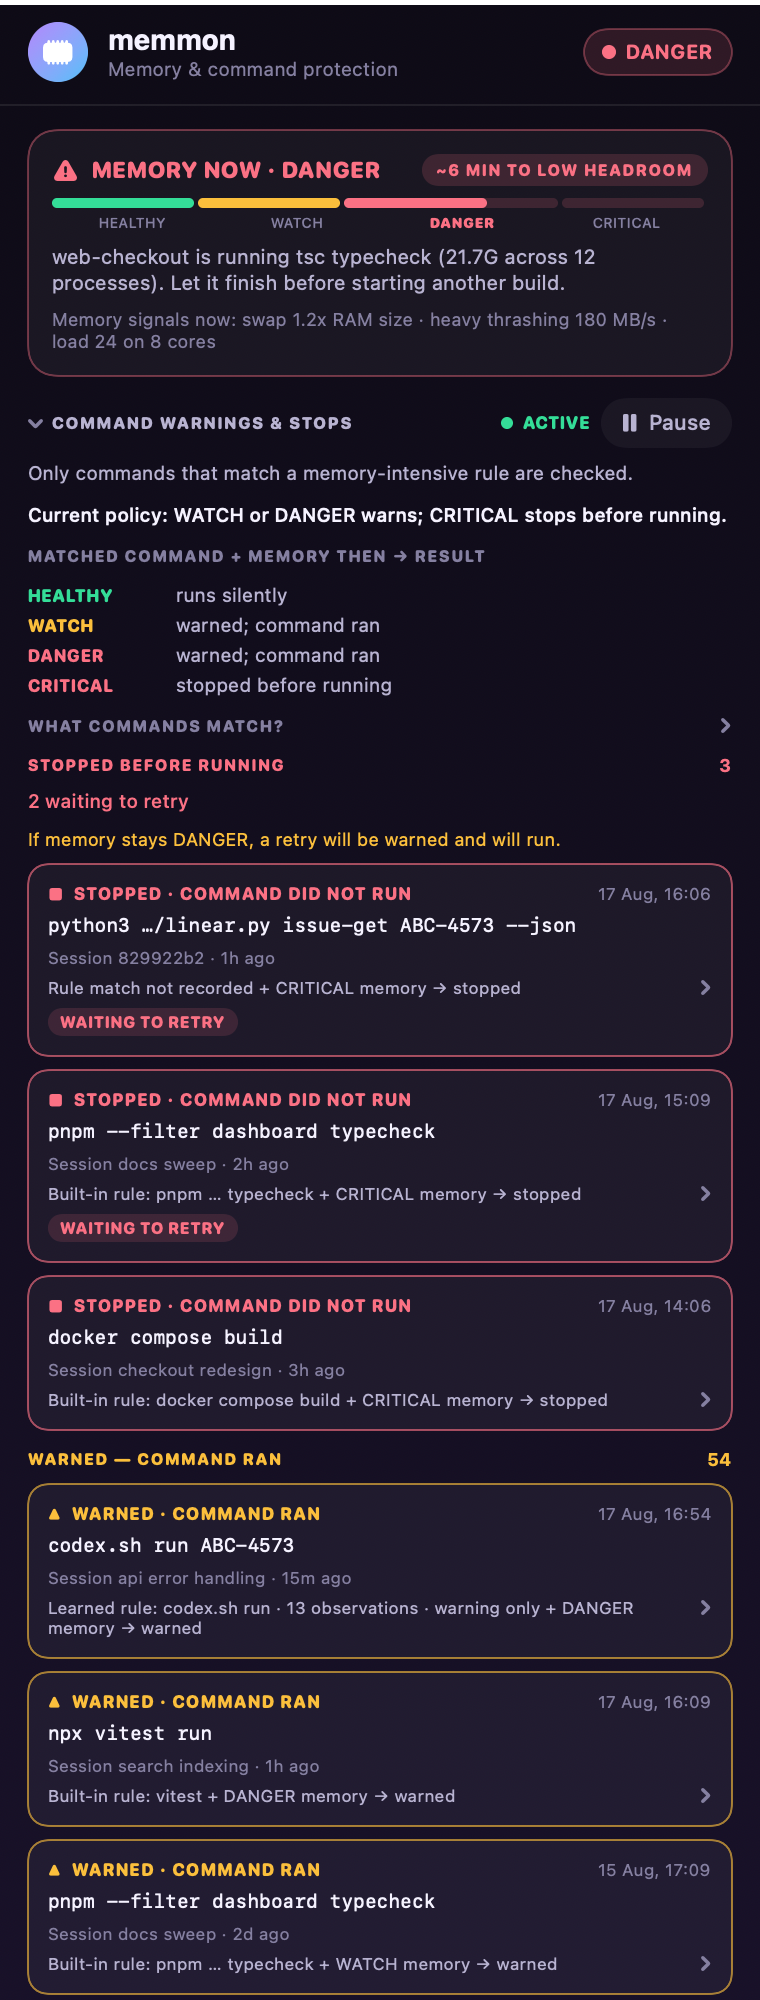
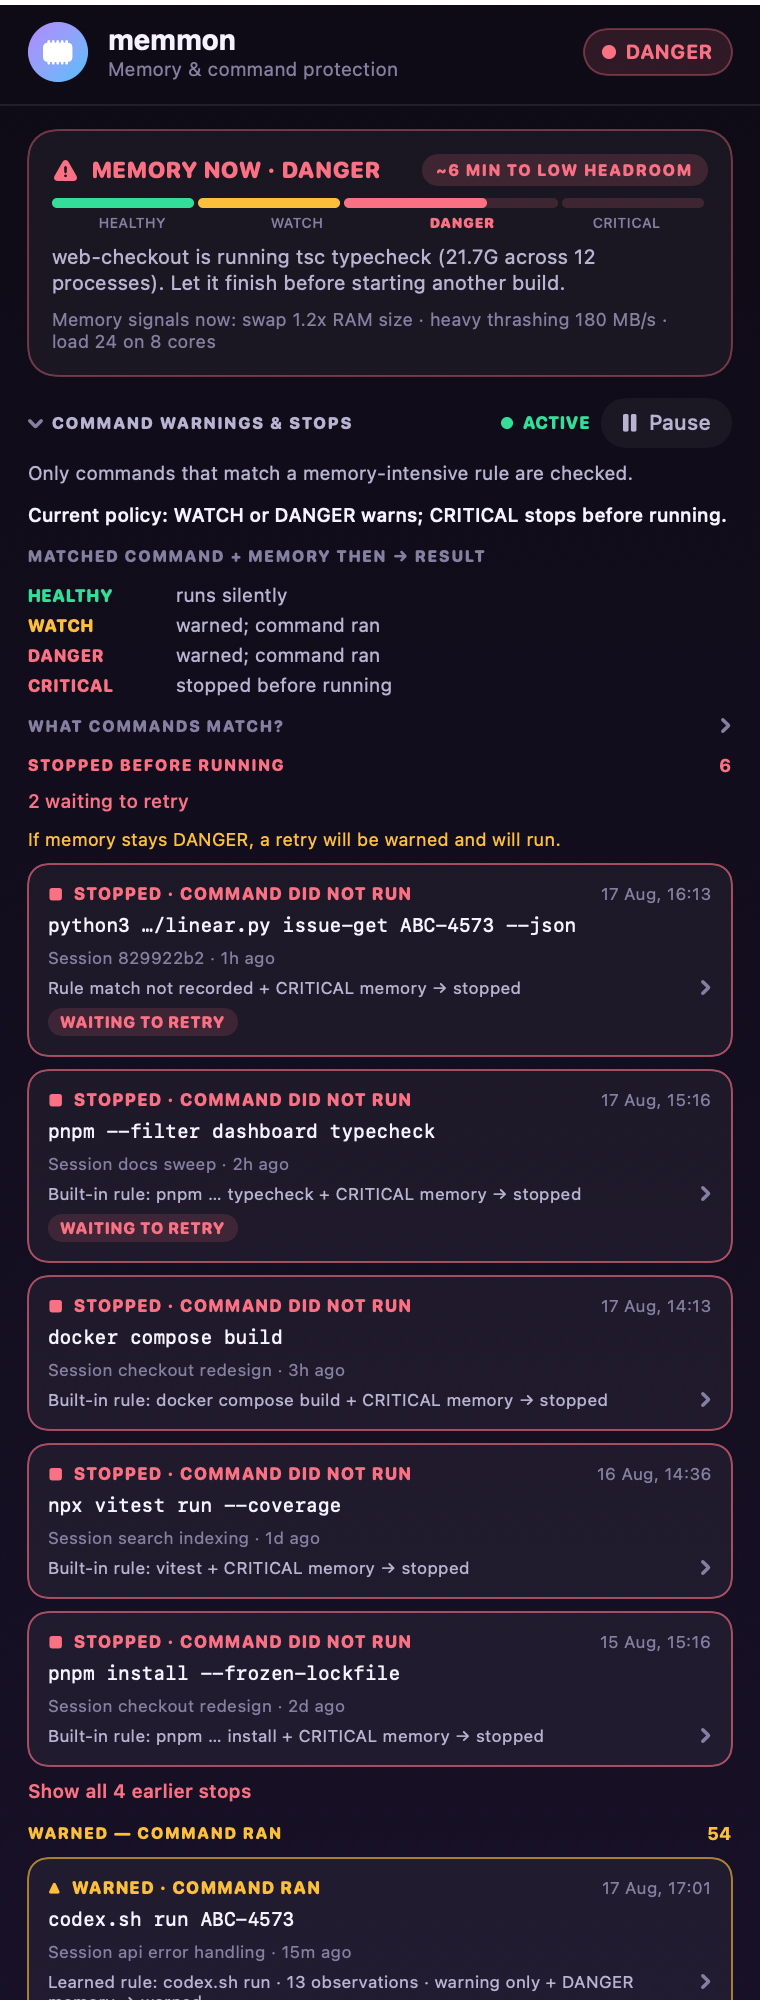
fix: cap the stopped list instead of growing it forever
Warnings showed three and offered a toggle; stops rendered every event the log
retained, with no cap. Nothing justified the asymmetry — the reasoning behind
it ("a blocked command is lost work, so keep it visible") is only true while
the command is still waiting to be re-run. Once it has been retried it is
history, and history was pushing the RAM/Swap tiles and the session list further
down the popover on every new stop.

Split by whether the stop still represents unfinished work. Anything waiting to
retry is listed in full and never collapsed. Everything else shows the three
most recent behind "show all N earlier stops", matching the warnings.

Also fixes the preview: it declared 3 stops in the header while rendering more
than that, and carried too few resolved stops to ever draw the overflow
control, so that path was never visible in a design review.

diff --git a/MemmonBar.swift b/MemmonBar.swift
@@ -913,6 +913,7 @@ struct ContentView: View {
     // popover open, which is the opposite of what those tiles are for.
     @State var openMatchRules = false
     @State var showAllWarnings = false
+    @State var showAllStops = false
     @State var expandedSessions: Set<String> = []
 
     private var s: Snap { model.snap }
@@ -1115,14 +1116,19 @@ struct ContentView: View {
     private var recentWarnings: [GateEvent] {
         s.gate.events.filter { $0.action == "warn" }.sorted { $0.ts > $1.ts }
     }
-    private var stoppedEvents: [GateEvent] {
-        let stopped = s.gate.events.filter { $0.action == "block" }
-        return stopped.sorted {
-            if ($0.retryStatus == "waiting") != ($1.retryStatus == "waiting") {
-                return $0.retryStatus == "waiting"
-            }
-            return $0.ts > $1.ts
-        }
+    // Stops split by whether they still represent unfinished work. A command
+    // that never ran and is still waiting is the one thing here nobody should
+    // have to expand a disclosure to find, so those are always listed in full.
+    // Everything else is history and is capped like the warnings are — an
+    // uncapped list grew with the log and pushed the rest of the popover down
+    // for no benefit, since an already-retried stop is not actionable.
+    private var pendingStops: [GateEvent] {
+        s.gate.events.filter { $0.action == "block" && $0.retryStatus == "waiting" }
+            .sorted { $0.ts > $1.ts }
+    }
+    private var resolvedStops: [GateEvent] {
+        s.gate.events.filter { $0.action == "block" && $0.retryStatus != "waiting" }
+            .sorted { $0.ts > $1.ts }
     }
 
     private var policyCopy: String {
@@ -1308,11 +1314,29 @@ struct ContentView: View {
                     s.level == "HEALTHY" || s.gate.paused ? P.green : P.amber)
                     .fixedSize(horizontal: false, vertical: true)
             }
-            ForEach(stoppedEvents) { GateEventCard(event: $0) }
+            // Unfinished work first, never truncated.
+            ForEach(pendingStops) { GateEventCard(event: $0) }
             ForEach(s.gate.pending.filter { !$0.eventRetained }) {
                 MissingGateEventCard(item: $0)
             }
-            if stoppedEvents.isEmpty && s.gate.pending.isEmpty {
+            if showAllStops {
+                LazyVStack(spacing: 7) {
+                    ForEach(resolvedStops) { GateEventCard(event: $0) }
+                }
+            } else {
+                ForEach(Array(resolvedStops.prefix(3))) { GateEventCard(event: $0) }
+            }
+            if resolvedStops.count > 3 {
+                Button(showAllStops
+                       ? "Show only 3 recent stops"
+                       : "Show all \(resolvedStops.count) earlier stops") {
+                    withAnimation(.easeInOut(duration: 0.16)) { showAllStops.toggle() }
+                }
+                .buttonStyle(.plain)
+                .font(.system(size: 9.5, weight: .semibold))
+                .foregroundColor(P.red)
+            }
+            if pendingStops.isEmpty && resolvedStops.isEmpty && s.gate.pending.isEmpty {
                 Text("No commands have been stopped since \(retainedDate(s.gate.since)).")
                     .font(.system(size: 9)).foregroundColor(P.faint)
             }
@@ -1602,6 +1626,34 @@ func renderPreview(to path: String) {
                       shape: "docker compose build", samples: nil, observedPeak: nil,
                       blockEligible: true), legacy: false, level: "CRITICAL", score: 7,
                   reasons: ["swap growing 1330 MB/min"], retryStatus: "not_waiting", ms: 71),
+        // Four resolved stops so the preview exercises the overflow control;
+        // with three or fewer it never renders and the path goes unreviewed.
+        GateEvent(ts: now - 96000, action: "block", mode: "block-critical",
+                  sessionID: "8ed32708", sessionName: "search indexing",
+                  commandRaw: "npx vitest run --coverage",
+                  commandDisplay: "npx vitest run --coverage",
+                  classification: GateClassification(source: "builtin", rule: "vitest",
+                      shape: "vitest run", samples: nil, observedPeak: nil,
+                      blockEligible: true), legacy: false, level: "CRITICAL", score: 7,
+                  reasons: ["swap 39% of RAM size", "paging 138 MB/s"],
+                  retryStatus: "not_waiting", ms: 69),
+        GateEvent(ts: now - 180000, action: "block", mode: "block-critical",
+                  sessionID: "dd187cea", sessionName: "checkout redesign",
+                  commandRaw: "pnpm install --frozen-lockfile",
+                  commandDisplay: "pnpm install --frozen-lockfile",
+                  classification: GateClassification(source: "builtin", rule: "pnpm … install",
+                      shape: "pnpm install", samples: nil, observedPeak: nil,
+                      blockEligible: true), legacy: false, level: "CRITICAL", score: 9,
+                  reasons: ["heavy thrashing 301 MB/s", "load 44 on 8 cores"],
+                  retryStatus: "not_waiting", ms: 81),
+        GateEvent(ts: now - 250000, action: "block", mode: "block-critical",
+                  sessionID: "70c9a8bb", sessionName: nil,
+                  commandRaw: "turbo run build", commandDisplay: "turbo run build",
+                  classification: GateClassification(source: "builtin", rule: "turbo … build",
+                      shape: "turbo build", samples: nil, observedPeak: nil,
+                      blockEligible: true), legacy: false, level: "CRITICAL", score: 7,
+                  reasons: ["swap 44% of RAM size", "paging 85 MB/s"],
+                  retryStatus: "not_waiting", ms: 66),
         GateEvent(ts: now - 900, action: "warn", mode: "block-critical",
                   sessionID: "8d63269a", sessionName: "api error handling",
                   commandRaw: "~/.claude/skills/codex/scripts/codex.sh run ABC-4573",
@@ -1634,7 +1686,9 @@ func renderPreview(to path: String) {
                        mode: "block-critical", since: now - 3 * 86400,
                        historyFrom: now - 3 * 86400, historyTo: now - 900,
                        complete: false, truncated: true, evaluated: 525,
-                       warned: 54, stopped: 3, errors: 0, events: events,
+                       // Must equal the number of block events below, or the
+                       // preview shows a header count contradicting its own list.
+                       warned: 54, stopped: 6, errors: 0, events: events,
                        pending: [
                         PendingRetry(ts: now - 3800, sessionID: "829922b2",
                                      sessionName: nil,

diff --git a/README.md b/README.md
@@ -52,9 +52,12 @@ was missing before — **why**: which rule matched (`Built-in rule: vitest`,
 was doing at that moment. So a stop reads as `Built-in rule: pnpm … typecheck +
 CRITICAL memory → stopped` rather than as an unexplained number.
 
-Stopped commands stay listed until they are safe to re-run, so nothing is
-silently lost. Events recorded before rules were tracked say so plainly rather
-than being re-explained with today's rules.
+Anything still waiting to be re-run is listed in full and never collapsed —
+that is work that did not happen, and it should not take a click to find.
+Stops that have already been retried are history, so only the three most recent
+show, behind a "show all" toggle; warnings work the same way. Events recorded
+before rules were tracked say so plainly rather than being re-explained with
+today's rules.
 
 **RAM and Swap tiles** — RAM is what is in memory; Swap is what has been written
 to disk. Swap is measured against *RAM size* (`1.21x`), not against the swapfile,
